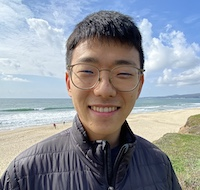
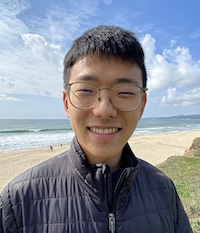
photo resize

diff --git a/_pages/people.md b/_pages/people.md
@@ -15,7 +15,7 @@ bhgood@stanford.edu | 650-497-2575 <br/>
 <br/>
 <br/>
 <br/>
-![image-left](/assets/images/dwong_photo.jpg){: .align-left}{: .align-left}
+![image-left](/assets/images/dwong_photo.png){: .align-left}{: .align-left}
 **Daniel Wong** <br/>
 *Graduate student in Applied Physics*<br/>
 <small>Daniel received his B.A. in Physics from Williams College in 2017. He is currently investigating how interference between linked mutations impacts ecological diversification in evolving resource competition models. He is also developing tools for inferring short-term evolutionary forces in vivo using barcoded lineage tracking data. <br/>
@@ -38,6 +38,8 @@ bhgood@stanford.edu | 650-497-2575 <br/>
 
 <br/>
 <br/>
+<br/>
+<br/>
 ![image-left](/assets/images/genome.png){: .align-left}{: .align-left}
 **Layton Rosenfeld** <br/>
 *Undergraduate Bio-X Fellow*<br/>
@@ -47,8 +49,6 @@ bhgood@stanford.edu | 650-497-2575 <br/>
 <br/>
 
 # Friends of the lab
-
-<br/>
 <br/>
 ![image-left](/assets/images/kxue_photo.jpg){: .align-left}{: .align-left}
 **Katherine Xue** <br/>
